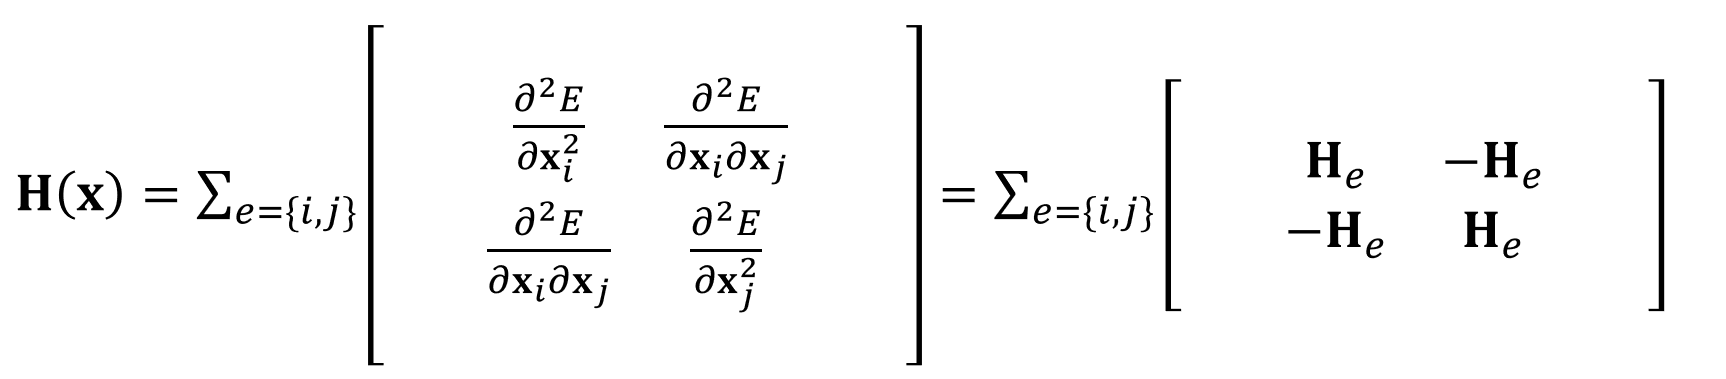
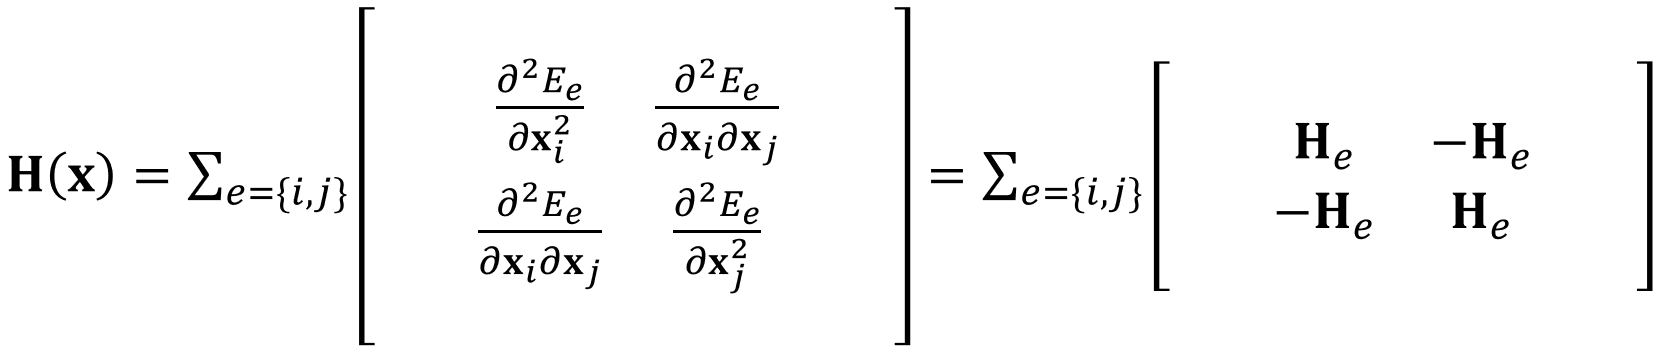
update doc

diff --git a/Homeworks/8_mass_spring/documents/README.md b/Homeworks/8_mass_spring/documents/README.md
@@ -230,7 +230,7 @@ $$
 % \end{align}
 $$
 
-那么总体的Hessian $\mathbf{H} \in \mathbf{R}^{3n\times 3n}$ 为单根弹簧Hessian $\mathbf{H} \in \mathbf{R}^{3 \times 3}$ 按照顶点索引组装起来：
+那么总体的Hessian $\mathbf{H} \in \mathbf{R}^{3n\times 3n}$ 为单根弹簧Hessian $\mathbf{H} \in \mathbf{R}^{3 \times 3}$ 按照顶点索引组装起来（比如第i个顶点通过弹簧和第j、k个顶点相连，那么3nx3n的Hessian中第3i行3i列、第3i行3j列，第3j行3i列，第3j行3j列对应的3x3 block会有值，同理第3i行3i列、第3i行3k列，第3k行3i列，第3k行3k列对应的3x3 block也会有值，那么第3i行3i列的3x3 Hessian block就有多个弹簧的贡献加在一起）：
 
 <div  align="center">    
  <img src="../images/hessian_assemble.png" style="zoom:40%"/>
